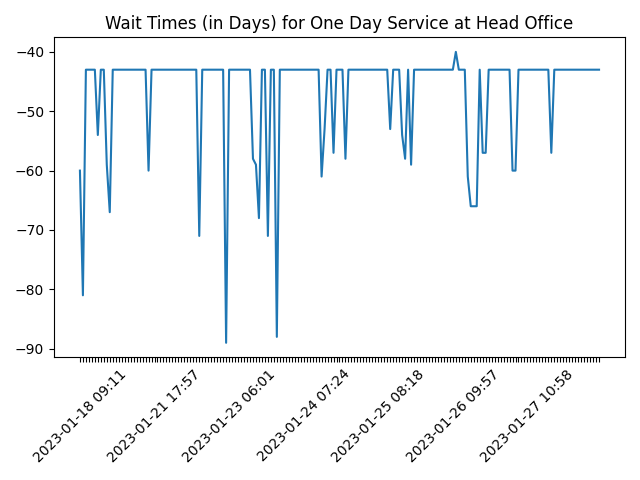
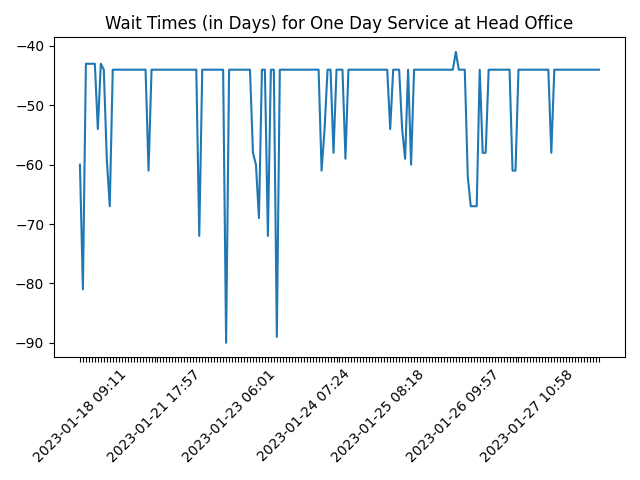
Updated data Sun Apr 23 06:22:12 UTC 2023

diff --git a/README.md b/README.md
@@ -1,5 +1,5 @@
 # Passport Application Reservation System - Availability Report
 
-*As of April 23, 2023 (06:07 AM)*
+*As of April 23, 2023 (11:52 AM)*
 
 Data Source: [Passport Application Reservation System](https://eservices.immigration.gov.lk:8443/appointment/pages/reservationApplication.xhtml)

diff --git a/summary.md b/summary.md
@@ -2,7 +2,7 @@
 
 Of the data from the Passport Application Reservation System of the Sri Lanka Department of Immigration and Emigration.
 
-*As of 2023-04-23 06:07:48*
+*As of 2023-04-23 11:52:10*
 
 ![Wait Time Chart](summary.wait_time_chart.png)
 
